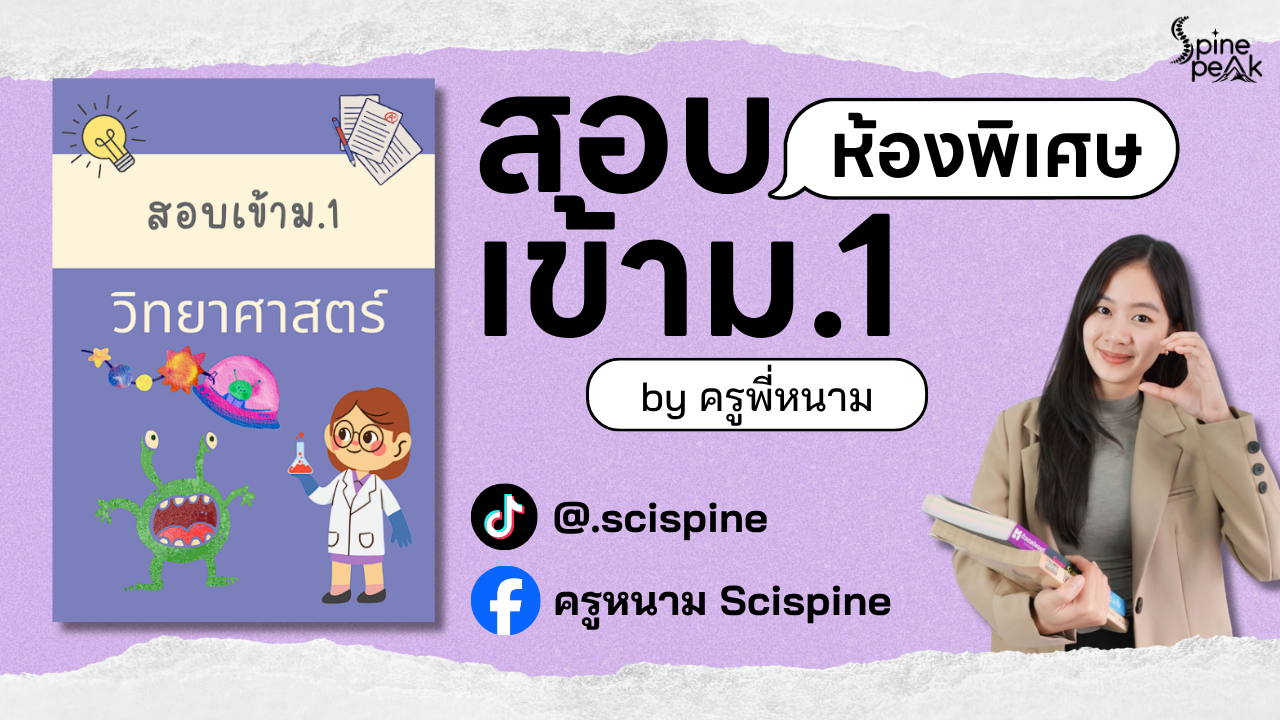
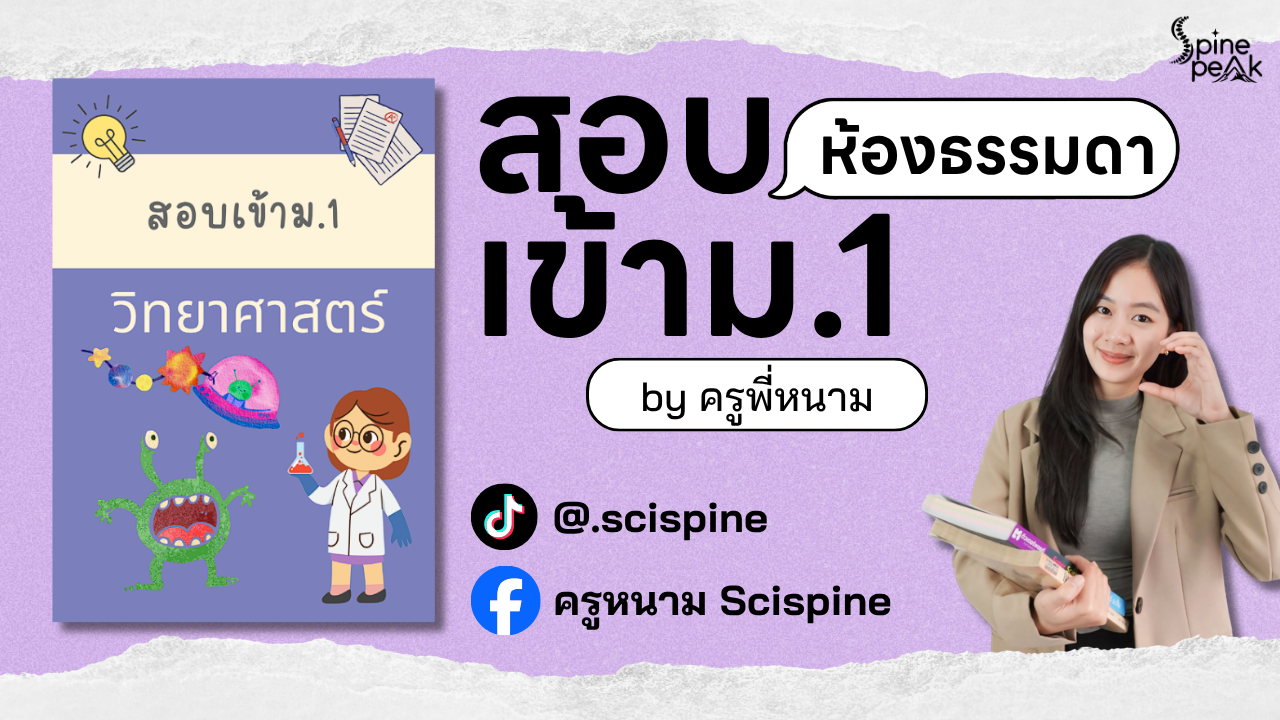
refactor: use Anuphan as the only Thai font, drop IBM Plex Sans Thai

Changed region(s): [[0.625, 0.1528, 0.9062, 0.275]]

diff --git a/src/app/fonts.ts b/src/app/fonts.ts
@@ -1,17 +1,10 @@
-import { Anuphan, IBM_Plex_Mono, IBM_Plex_Sans_Thai } from 'next/font/google'
+import { Anuphan, IBM_Plex_Mono } from 'next/font/google'
 
-/** หัวข้อ */
+/** ฟอนต์ไทยตัวเดียวของเว็บ ใช้ทั้งหัวข้อและเนื้อความ */
 export const anuphan = Anuphan({
-  weight: ['600', '700'],
+  weight: ['400', '500', '600', '700'],
   subsets: ['thai', 'latin'],
   variable: '--font-anuphan',
-})
-
-/** เนื้อความ · ที่ design ใช้ 500 ให้ใช้ 600 แทน */
-export const plexThai = IBM_Plex_Sans_Thai({
-  weight: ['400', '600'],
-  subsets: ['thai', 'latin'],
-  variable: '--font-plex-thai',
 })
 
 /** ตัวอักษรละตินเล็ก ๆ เช่นป้ายกำกับ */

diff --git a/src/app/layout.tsx b/src/app/layout.tsx
@@ -4,7 +4,7 @@ import { SiteFooter } from '@/components/site-footer'
 import { MotionProvider } from '@/components/motion/motion-provider'
 import { SiteHeader } from '@/components/site-header'
 import { siteUrl } from '@/lib/site-url'
-import { anuphan, plexMono, plexThai } from './fonts'
+import { anuphan, plexMono } from './fonts'
 import './globals.css'
 
 const { name, description } = catalog.siteInfo()
@@ -17,7 +17,7 @@ export const metadata: Metadata = {
 
 export default function RootLayout({ children }: Readonly<{ children: React.ReactNode }>) {
   return (
-    <html lang="th" className={`${anuphan.variable} ${plexThai.variable} ${plexMono.variable}`}>
+    <html lang="th" className={`${anuphan.variable} ${plexMono.variable}`}>
       <body className="font-sans antialiased">
         <MotionProvider>
           <SiteHeader />

diff --git a/src/app/globals.css b/src/app/globals.css
@@ -10,9 +10,9 @@
  * ฟอนต์โหลดผ่าน next/font ใน src/app/fonts.ts แล้วส่งเข้ามาเป็น CSS variable
  */
 @theme inline {
-  --font-sans: var(--font-plex-thai), system-ui, sans-serif;
-  --font-heading: var(--font-anuphan), var(--font-plex-thai), sans-serif;
-  --font-mono: var(--font-plex-mono), ui-monospace, monospace;
+  --font-sans: var(--font-anuphan), system-ui, sans-serif;
+  --font-heading: var(--font-anuphan), sans-serif;
+  --font-mono: var(--font-plex-mono), var(--font-anuphan), ui-monospace, monospace;
 }
 
 @theme {
